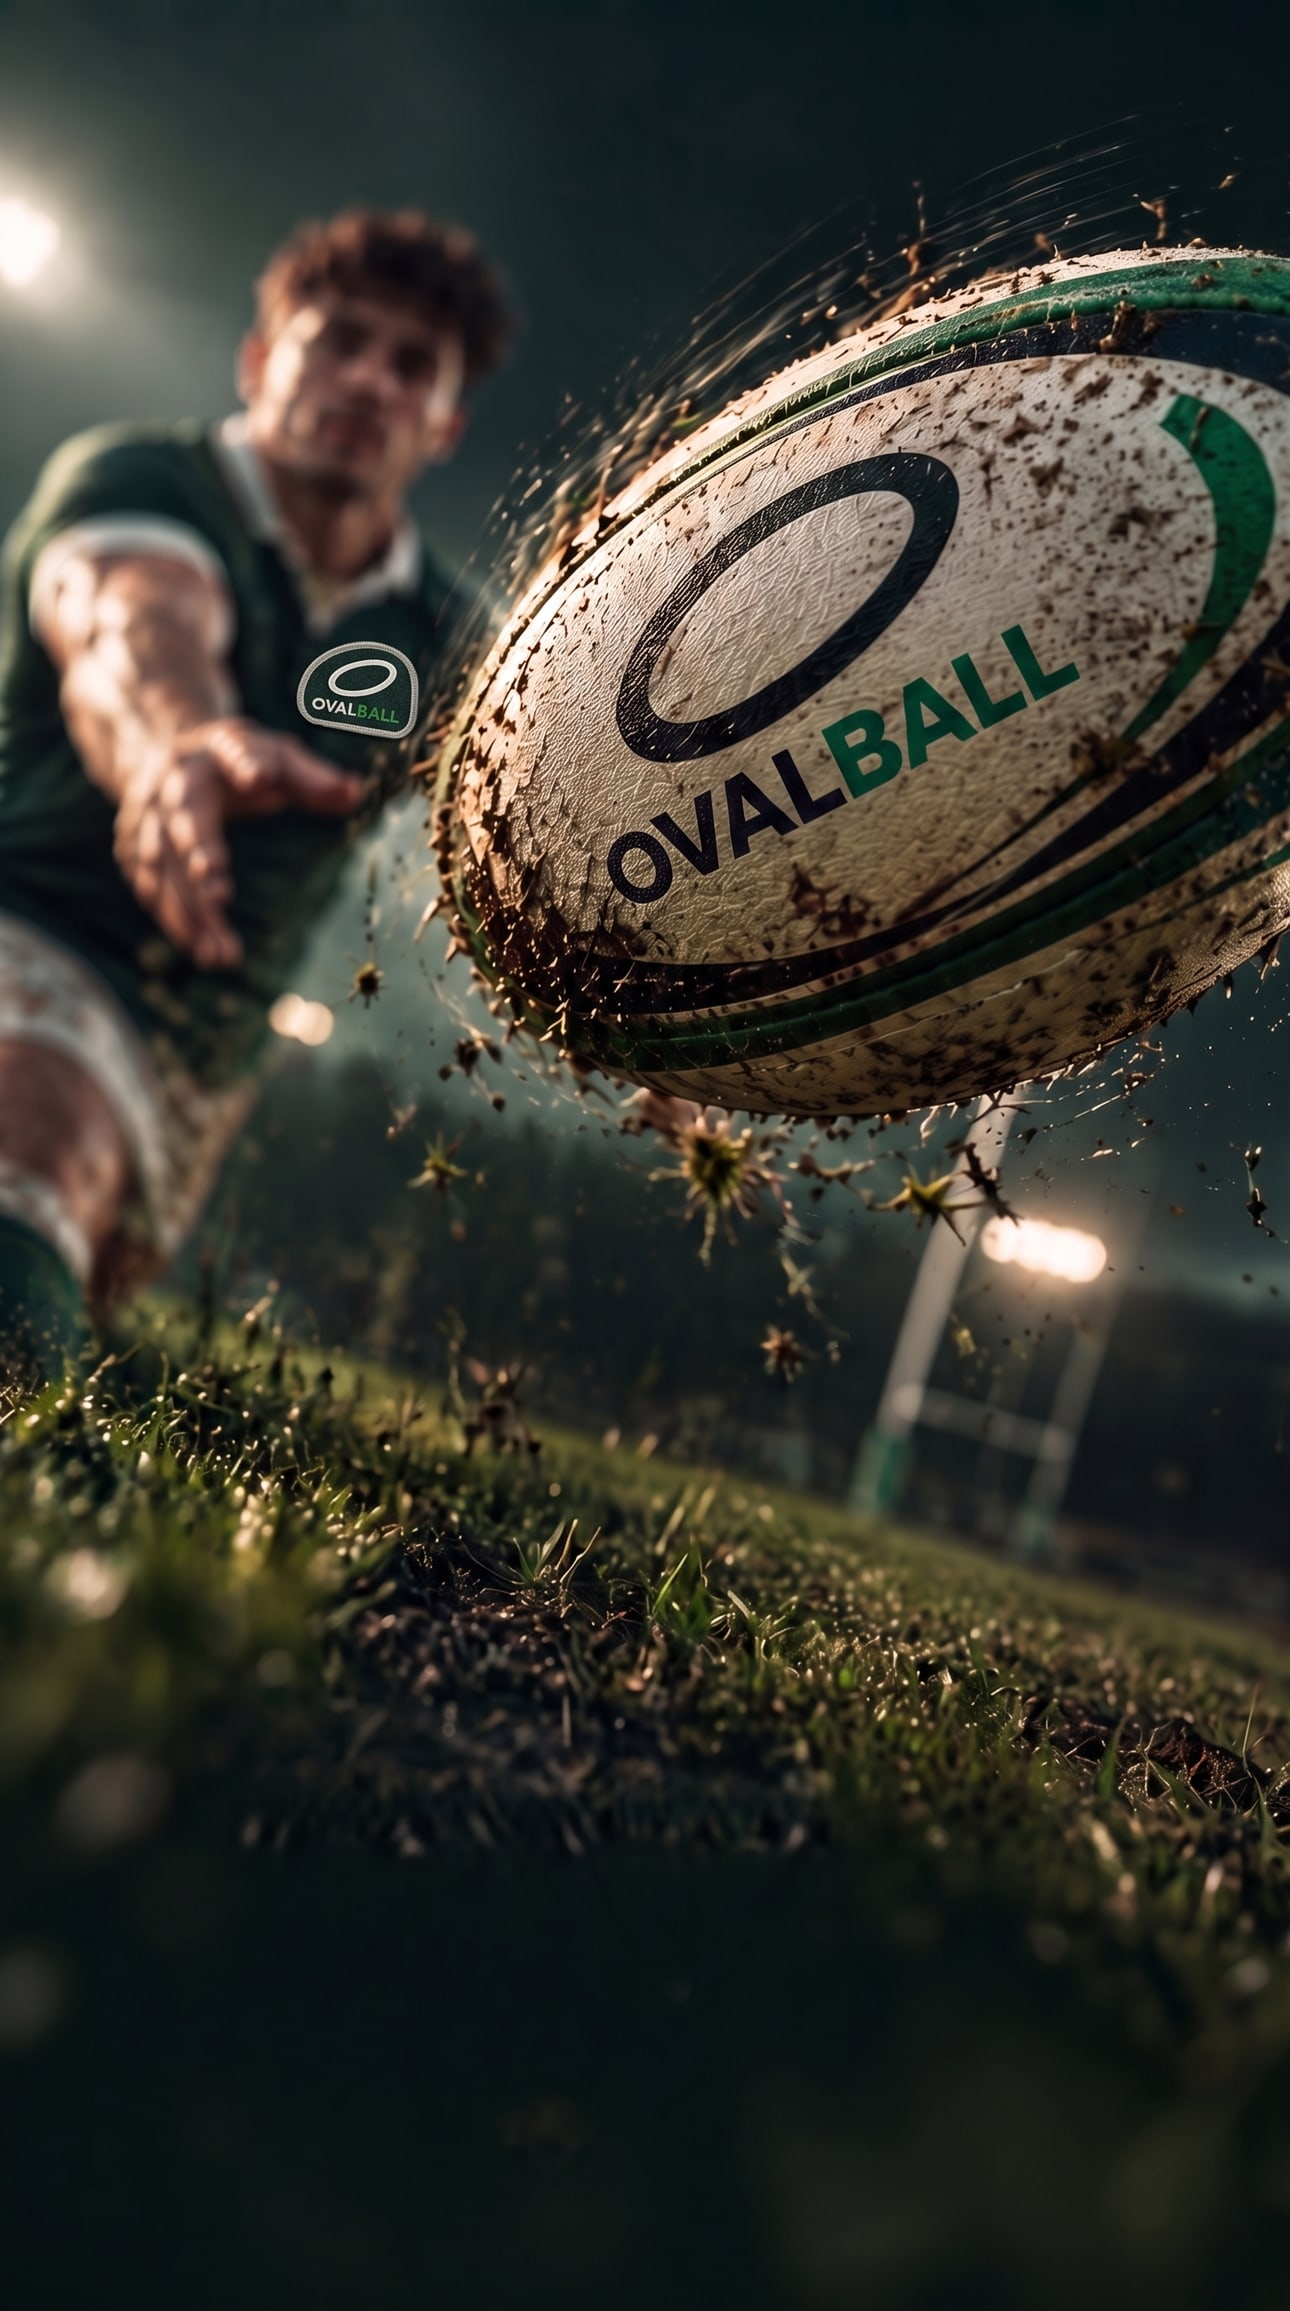
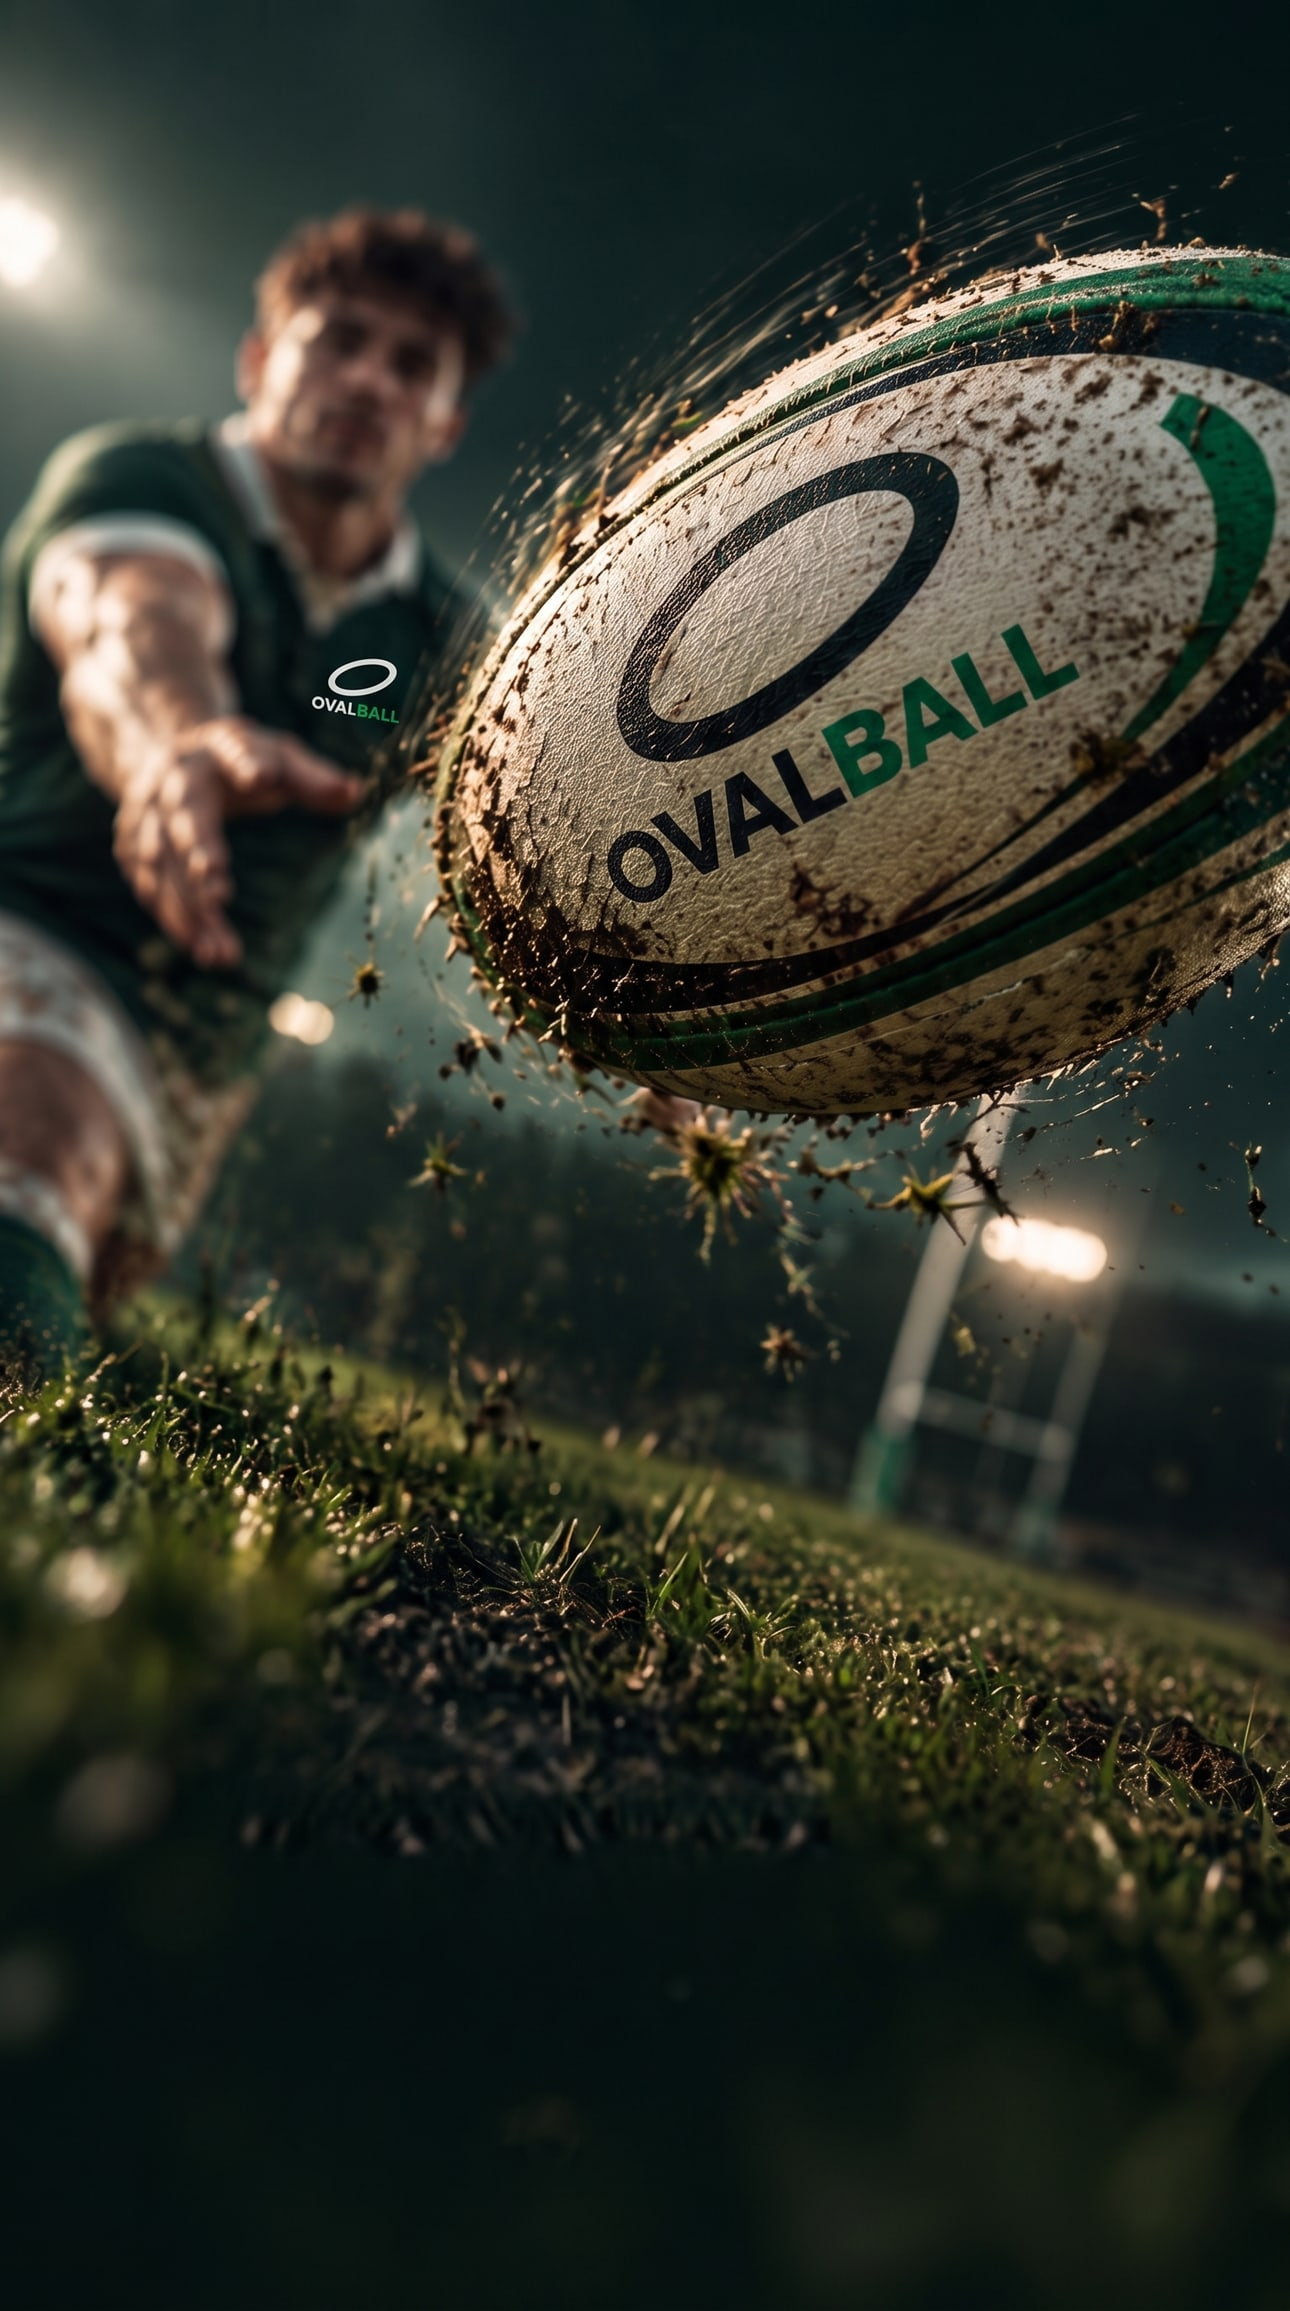
fix(welcome): the still as the reference — printed badge, no embroidery
The owner rejected the embroidered patch on the phone. The still is the
reference frame with its own small printed chest badge, the whole ball logo
in the picture and the lower half cleared for the native text.

Claude-Session: https://claude.ai/code/session_01BBm6Ke75XXx7RgeqfDXpfH

diff --git a/apps/mobile/src/components/welcome/welcome-screen.tsx b/apps/mobile/src/components/welcome/welcome-screen.tsx
@@ -14,7 +14,7 @@ import { TOUCH_TARGET, colour, radius, space, type } from "../../design/tokens"
  * THE PUBLIC ENTRANCE — the first thing somebody who is not signed in sees.
  *
  * ONE PICTURE, ON FOREST. The owner's direction is a single action frame: a player mid-pass on a
- * floodlit pitch, the ball coming at the camera, the Ovalball mark embroidered on the jersey. The
+ * floodlit pitch, the ball coming at the camera, the Ovalball mark on the jersey. The
  * frame is an app-owned still (`welcomeStill`), shown full-bleed on the forest ground and darkened
  * toward the foot so the words read. Everything that says something -- the mark, the motto, the
  * copy, the two actions -- is native, laid over the picture, never baked into it.

diff --git a/apps/mobile/src/components/welcome/still.ts b/apps/mobile/src/components/welcome/still.ts
@@ -4,7 +4,7 @@ import type { ImageSourcePropType } from "react-native"
  * THE WELCOME STILL — the one place the entrance photograph is referenced.
  *
  * An app-owned frame: a player mid-pass on a floodlit pitch, the ball toward the camera, the
- * Ovalball mark embroidered on the jersey. Produced on Higgsfield from the owner's reference with
+ * Ovalball mark on the jersey. Produced on Higgsfield from the owner's reference with
  * the CANONICAL mark supplied as a reference image, reviewed by eye, and bundled. It carries no
  * other words and it is never the source of anything: the mark, the motto, the copy and the
  * actions are native layers over it.

diff --git a/docs/mobile/WELCOME.md b/docs/mobile/WELCOME.md
@@ -241,3 +241,10 @@ Edited on Higgsfield (`nano_banana_pro`, 2k, 9:16) from that frame plus the cano
 Derivative 1290 × 2311 JPEG q86. Screen unchanged from the previous pass; measured again at
 375 × 667, 393 × 852 and 430 × 932, push-in 1.000 → 1.036 with motion and held at 1.000 under
 Reduce Motion.
+
+## Correction — no embroidered badge
+
+The owner reviewed the embroidered patch on the phone and rejected it ("looks silly"): the still
+is to be the reference frame as it is. `welcome-still.jpg` is now **ball-b** — the reference's own
+small printed chest badge, the whole ball logo inside the frame, the lower half cleared for the
+native layers. badge-b is withdrawn. Nothing else on the screen changed.
